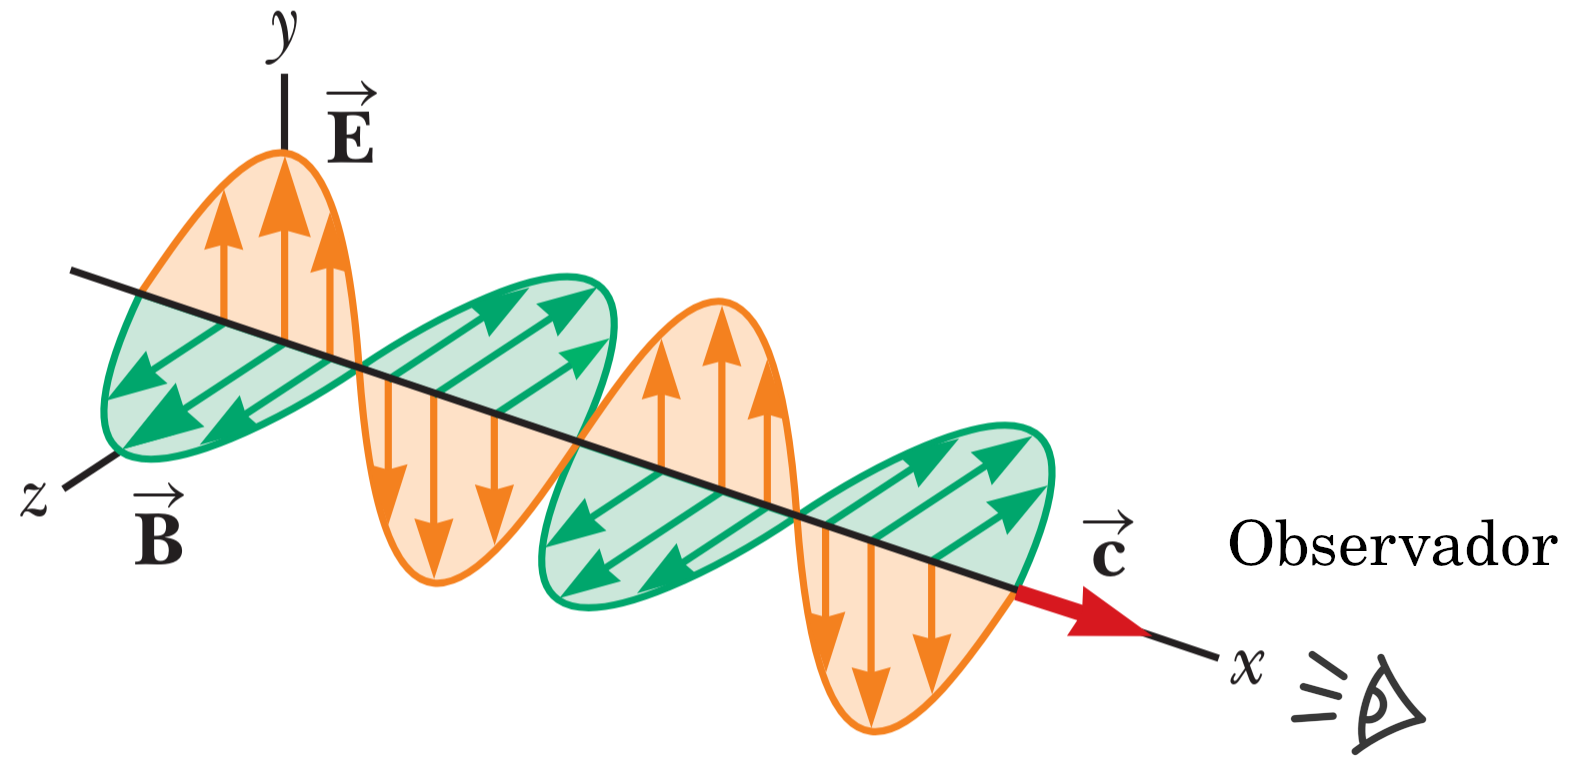
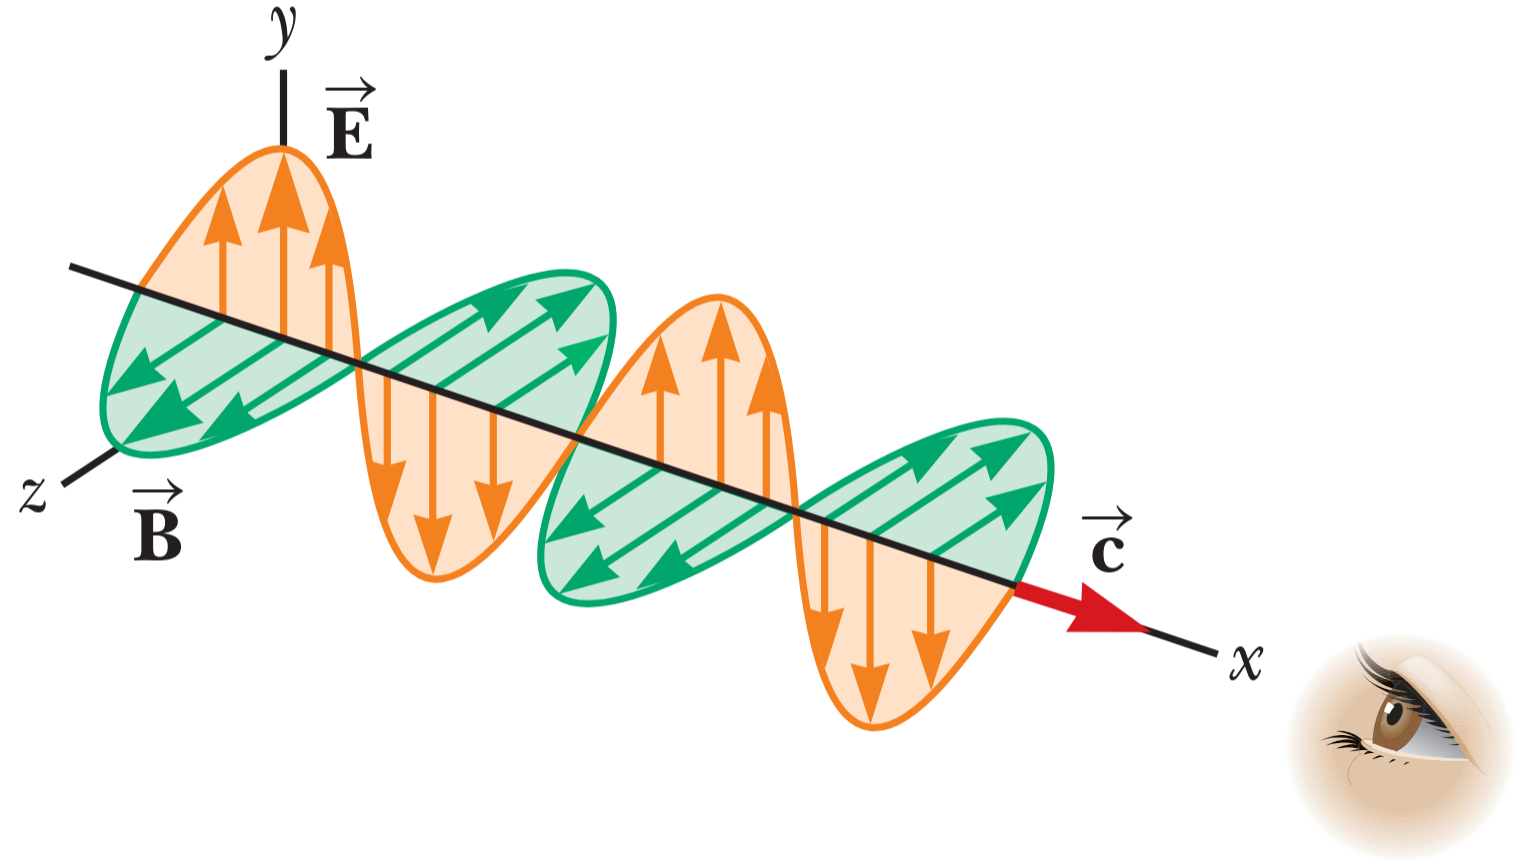
finish mirrors

Changed region(s): [[0.0, 0.0, 1.0, 0.9987], [0.0307, 0.2809, 0.0614, 0.3121]]

diff --git a/chapters/5_optics/4_mirrors.tex b/chapters/5_optics/4_mirrors.tex
@@ -29,4 +29,260 @@ Las imágenes están localizadas ya sea en un punto a partir del cual los rayos 
 
 Las imágenes pueden clasificarse según varias características, una de ellas es si son \textit{reales} o \textit{virtuales}. Una imagen real es la que se forma cuando los rayos luminosos pasan por el punto de la imagen. Por otro lado, una imagen virtual es la que se forma cuando los rayos luminosos no pasan por el punto de la imagen, sino que parecen divergir desde el punto de la imagen. La imagen formada por el espejo de la figura \ref{fig:mirror} es virtual y está detrás del espejo.
 
-La imagen vista de un objeto en un espejo plano \textit{siempre} es virtual.
+La imagen vista de un objeto en un espejo plano \textit{siempre} es virtual. Más adelante veremos un ejemplo de imagen real.
+
+\subsubsection{Aumento Lateral de una imagen}
+
+\begin{wrapfigure}{r}{0.3\textwidth}
+  \centering
+  \includegraphics[width=\linewidth]{mirror_geometry.png}
+  \caption{Construcción geométrica utilizada para localizar la \textbf{imagen} de un objeto en un espejo plano.}
+  \label{fig:mirror_geometry}
+\end{wrapfigure}
+Veamos la figura \ref{fig:mirror_geometry}. Para poder determinar dónde se formará la imagen del objeto es necesario elegir dos rayos emitidos por el objeto. 
+
+En este caso el objeto es una flecha. El punto \(P\) es el extremo superior de la flecha a una altura \(h\) sobre el eje horizontal. El primer rayo que vamos a elegir es el rayo que sale de \(P\), y va hasta \(Q\) que se refleja en el espejo plano sobre sí mismo. El segundo rayo que vamos a elegir es el rayo que sale de \(P\), y va hasta \(R\) que se refleja con un ángulo \(\theta\) con respecto al eje horizontal. 
+
+Un observador que recibe el rayo \(PR\) reflejado, es capaz de ver la imagen virtual del objeto, que sería la flecha roja\footnote{Es importante entender que el objeto que se refleja es una flecha, los colores son únicamente para identificar la flecha original y la flecha reflejada}. Entonces, podría extender el rayo reflejado hasta la imagen virtual \(P'\), que está ubicada a una altura \(h'\) detrás del espejo sobre el eje horizontal.
+
+Ya que los triángulos \(PQR\) y \(P'QR\) son congruentes, \(PQ=P'Q\). Por lo tanto, la imagen formada por un objeto colocado en frente a un espejo plano está tan lejos detrás del espejo como está el objeto delante del espejo. También \(h=h'\), por lo que la imagen virtual es del mismo tamaño que el objeto.
+
+El \textbf{aumento lateral} \(M\) de una imagen se define como:
+\begin{equation}
+M = \frac{\text{altura de la imagen}}{\text{altura del objeto}} = \frac{h'}{h}
+\label{eq:aumento_lateral}
+\end{equation}
+Esta definición general del aumento lateral para una imagen a partir de cualquier tipo de espejo también es válida para imágenes formadas por lentes.
+
+Para cualquier espejo plano \(M=+1\), ya que la altura de la imagen es igual a la altura del objeto. El valor positivo de la amplificación significa que la imagen es vertical.
+
+\subsubsection{Inversión aparente de un espejo plano}
+
+La creencia de que un espejo plano ``invierte de derecha a izquierda'' es una ilusión perceptiva. En realidad, un espejo plano no invierte lateralmente (ni derecha-izquierda ni arriba-abajo); lo que invierte es la profundidad, es decir, el eje frente-detrás (o eje \(z\) en un sistema cartesiano tridimensional).
+
+Cuando te colocas frente a un espejo plano, cada punto de tu cuerpo se refleja siguiendo la ley de reflexión, que dice que el ángulo de incidencia es igual al ángulo de reflexión. Si estás a 1 metro del espejo, la imagen reflejada de cualquier punto de tu cuerpo se forma a 1 metro \textit{detrás} del plano del espejo, manteniendo su posición relativa en los otros dos ejes (horizontal y vertical).
+
+\begin{wrapfigure}{l}{0.43\textwidth}
+  \centering
+  \includegraphics[width=\linewidth]{mirror_inversion.png}
+  \caption{Inversión aparente de un espejo plano.}
+  \label{fig:mirror_inversion}
+\end{wrapfigure}
+Matemáticamente, si representamos tu posición como un vector en el espacio tridimensional, por ejemplo \((x,y,z)\), el espejo refleja tu imagen como \((x,y,-z)\). Esto significa que solo se invierte el componente \(z\), que representa la profundidad (la distancia hacia el espejo).
+
+¿Entonces por qué parece que se invierte la derecha y la izquierda? La confusión surge de la simetría especular y de cómo interpretamos las imágenes reflejadas. Si tú levantas tu mano derecha, la imagen parece levantar la mano izquierda solo porque está frente a ti, y tú la interpretas como una persona girada 180° sobre su eje vertical. En otras palabras, tu cerebro intenta interpretar la imagen como si fuera otra persona que se ha dado vuelta para mirarte, lo cual implicaría una inversión izquierda-derecha. Pero el espejo no realiza esa rotación: tú haces esa interpretación mental.
+
+Un ejemplo claro: si sostienes un cartel con letras normales (no al revés) frente a un espejo, verás las letras invertidas horizontalmente. Esto no ocurre porque el espejo invierta la izquierda y la derecha, sino porque tú has girado el cartel hacia el espejo; si lo haces transparente y lo colocas de espaldas, la imagen coincidirá perfectamente.
+
+\subsubsection{Imágenes formadas por espejos esféricos}
+
+Ahora se estudiarán las imágenes formadas por espejos curvos. Aunque son posibles varias curvaturas, la investigación se restringirá a espejos esféricos. 
+
+Un espejo esférico es aquel que tiene la forma de una sección de una esfera.
+
+\paragraph{Espejo cóncavo}
+
+Si tomamos la sección interna de una esfera, obtenemos un \textbf{espejo cóncavo}. Este tipo de espejos tienen su superficie curva hacia el objeto.
+\begin{figure}[ht]
+  \centering
+  \includegraphics[width=0.55\textwidth]{mirror_concave.png}
+  \caption{Elementos de un espejo cóncavo.}
+  \label{fig:mirror_concave}
+\end{figure}
+
+La figura \ref{fig:mirror_concave}a muestra que el espejo tiene un radio de curvatura \(R\), y su centro de curvatura es el punto \(C\). El punto \(V\) es el centro de la sección esférica, y una línea a través de \(C\) y \(V\) se llama \textbf{eje principal} del espejo.
+
+Ahora considere la figura \ref{fig:mirror_concave}b, que muestra un objeto ubicado en el punto \(O\), donde \(O\) es cualquier punto sobre el eje principal a la izquierda de \(C\). También se muestran dos rayos divergentes que salen del objeto, estos se reflejan en el espejo y convergen en el punto \(I\). Esta es la imagen del objeto \(O\). Luego los rayos continúan su trayecto divergente. Como resultado, la imagen \(I\) es \textbf{real}.
+
+Solo vamos a considerar aquellos rayos que se reflejan en el espejo y convergen en el punto \(I\) del eje principal. A estos rayos se les llama \textbf{rayos paraxiales}. Existen rayos que no son paraxiales (convergen lejos del eje principal) y producen una imagen borrosa. A este efecto se le conoce como \textit{aberración esférica}.
+
+Si se conoce la distancia \(p\) y el radio de curvatura \(R\), se puede calcular la distancia \(q\) de la imagen con la siguiente ecuación:
+\begin{equation}
+    \boxed{\frac{1}{p} + \frac{1}{q} = \frac{2}{R}}
+    \label{eq:mirror_concave}
+\end{equation}
+Para comprender de dónde sale la ecuación \ref{eq:mirror_concave}, veamos la figura \ref{fig:mirror_concave_2}.
+
+\begin{figure}[ht]
+  \centering
+  \includegraphics[width=0.6\textwidth]{mirror_concave_analysis.png}
+  \caption{Imagen formada por un espejo esférico cóncavo cuando el objeto \(O\) yace fuera del centro de curvatura \(C\).}
+  \label{fig:mirror_concave_2}
+\end{figure}
+En esta figura se ha puesto un objeto con forma de flecha (flecha gris) delante de un espejo cóncavo (espejo celeste). Este espejo proyecta una imagen real, amplificada y verticalmente invertida (flecha roja).
+
+\begin{tcolorbox}[mydanger]
+  Amplificación \textbf{no} necesariamente significa aumento.
+\end{tcolorbox}
+
+Como muestra la figura \ref{fig:mirror_concave_2}, dos rayos salen de la punta del una flecha. El rayo rojo pasa a través del centro de curvatura, e incide sobre el espejo perpendicular a la superficie, reflejándose de regreso sobre sí mismo.
+
+El rayo azul incide en el espejo en su centro (punto \(V\)) y se refleja como se muestra. La imagen de la punta de la flecha se localiza en el punto donde se cruzan ambos rayos. Del triángulo rectángulo grande de color rojo puede ver que \(\tan(\theta) = h/p\), y del triangulo rectángulo amarillo se ve que \(\tan(\theta) = -h'/q\).\footnote{El signo negativo se debe a que la imagen es invertida y \(h'\) es negativo}
+
+Operando sobre las expresiones trigonométricas:
+\[
+  \tan(\theta) = \frac{h}{p} = \frac{-h'}{q} \implies \frac{h'}{h} = -\frac{q}{p}
+\]
+
+Por lo tanto, de la ecuación \ref{eq:aumento_lateral} (aumento lateral) encontramos que el aumento de la imagen es:
+\begin{equation}
+  M = \frac{h'}{h} = -\frac{q}{p}
+  \label{eq:aumento_lateral_concave}
+\end{equation}
+
+Si vemos el triangulo verde de la figura, tenemos que:
+\[
+  \tan(\alpha) = \frac{-h'}{R-q} \quad \text{y} \quad \tan(\alpha) = \frac{h}{p-R}
+\]
+Donde al sustituir en el aumento lateral resulta la ecuación \ref{eq:mirror_concave} que se denomina ecuación de espejo.
+
+\begin{wrapfigure}{r}{0.33\textwidth}
+  \centering
+  \includegraphics[width=\linewidth]{focal_distance.png}
+  \caption{Foco de un espejo cóncavo.}
+  \label{fig:focal_distance}
+\end{wrapfigure}
+El \textbf{foco} del espejo se puede determinar suponiendo que el objeto está muy alejado. En este caso la distancia \(p \to \infty\), y por lo tanto \(1/p \to 0\). 
+
+En este caso especial, donde el objeto está infinitamente alejado, la imagen coincide con el foco. Por lo general, el foco no es el punto en el cual los rayos luminosos se enfocan para formar una imagen. El foco está determinado sólo por la curvatura del espejo, no depende de la posición del objeto. Por lo común, la imagen se forma en un punto distinto del foco de un espejo (o una lente). La \textit{única} excepción es cuando el objeto está infinitamente alejado, en este caso la imagen se forma en el foco.
+
+Entonces, en el caso de la figura \ref{fig:focal_distance}, donde los rayos inciden de forma paralela, se puede suponer que la fuente está muy lejos, y el foco y la imagen coinciden. 
+\begin{equation}
+  \frac{1}{q} = \frac{2}{R} \implies f = \frac{R}{2}
+  \label{eq:focal_distance}
+\end{equation}
+Al combinar las ecuaciones \ref{eq:mirror_concave} y \ref{eq:focal_distance}, obtenemos la \textbf{ecuación de espejo}:
+\begin{equation}
+  \frac{1}{p} + \frac{1}{q} = \frac{1}{f}
+\end{equation}
+
+\paragraph{Espejo convexo}
+
+Si tomamos la sección interna de una esfera, obtenemos un \textbf{espejo convexo} también llamado espejo \textbf{divergente}, ya que los rayos de cualquier punto a un objeto divergen después de reflejarse. Este tipo de espejos tienen el pandeo hacia el objeto.
+
+La imagen producida por un espejo convexo siempre es virtual, derecha y disminuida. Se dice que es disminuida cuando el aumento lateral es menor que 1, es decir, \(M < 1\).
+
+No se deducirá ecuaciones para los espejos esféricos convexos, porque puede utilizar las ecuaciones \ref{eq:aumento_lateral_concave}, \ref{eq:mirror_concave} y \ref{eq:focal_distance} tanto para espejos cóncavos como para espejos convexos, siempre y cuando siga el procedimiento siguiente:
+
+\begin{figure}[ht]
+  \centering
+  \includegraphics[width=0.55\textwidth]{convex_mirror.png}
+  \caption{Elementos de un espejo convexo.}
+  \label{fig:convex_mirror}
+\end{figure}
+Teniendo en cuenta la figura \ref{fig:convex_mirror}, el procedimiento es el siguiente:
+\begin{enumerate}
+  \item Identifique la región en la cual los rayos luminosos se mueven hacia el espejo como \textit{cara frontal} y el otro lado como \textit{cara trasera} (es decir la parte frontal que recibe los rayos y trasera del espejo que no recibe los rayos).
+  \item Identifique la localización del objeto \(p\) teniendo en cuenta:
+    \begin{itemize}
+      \item el objeto está delante del espejo: \textit{objeto real}
+      \item el objeto está detrás del espejo: \textit{objeto virtual}
+    \end{itemize}
+  \item  Localización de la imagen \(q\):
+    \begin{itemize}
+      \item la imagen está delante del espejo: \textit{imagen real}
+      \item la imagen está detrás del espejo: \textit{imagen virtual}
+    \end{itemize}
+  \item Altura de la imagen \(h'\):
+    \begin{itemize}
+      \item la imagen es invertida: \(h' < 0\) (negativa)
+      \item la imagen no es invertida: \(h' > 0\) (positiva)
+    \end{itemize}
+  \item Distancia focal \(f\) y radio \(R\):
+    \begin{itemize}
+      \item Es positiva cunado el espejo es cóncavo
+      \item Es negativa cuando el espejo es convexo
+    \end{itemize}
+  \item Aumento lateral \(M\):
+    \begin{itemize}
+      \item la imagen es aumentada: \(M > 1\)
+      \item la imagen es disminuida: \(M < 1\)
+      \item la imagen es del mismo tamaño: \(M = 1\)
+    \end{itemize}
+\end{enumerate}
+
+\subsubsection{Diagrama de rayos para los espejos}
+
+El diagrama de rayos para los espejos es un diagrama que muestra la trayectoria de los rayos que salen de un objeto y se reflejan en un espejo. Es muy útil para verificar los cálculos realizados y entender la naturaleza de la imagen formada.
+
+\noindent Para dibujar el diagrama de rayo es necesario conocer:
+\begin{itemize}
+  \item la posición del objeto \(p\)
+  \item la localización del foco \(f\)
+  \item el centro de curvatura del espejo \(C\)
+\end{itemize}
+
+\noindent A continuación se presentan ejemplos para los diagramas de rayos para los espejos cóncavos y convexos.
+
+\subparagraph{Para espejos cóncavos}
+
+Se tienen dos posibilidades:
+\begin{enumerate}
+  \item El objeto está ubicado detrás del foco y la imagen será real, invertida y aumentada.
+  \item El objeto está ubicado entre el foco y el centro de curvatura y la imagen será virtual, derecha y disminuida.
+\end{enumerate}
+
+\begin{figure}[ht]
+  \centering
+  \begin{subfigure}[b]{0.49\textwidth}
+      \centering
+      \includegraphics[width=\textwidth]{mirror_diagram_1.png}
+      \caption{Diagrama de rayos para un espejo cóncavo cuando el objeto está ubicado detrás del foco.}
+      \label{fig:mirror_diagram_1}
+  \end{subfigure}
+  \hfill
+  \begin{subfigure}[b]{0.49\textwidth}
+      \centering
+      \includegraphics[width=\textwidth]{mirror_diagram_2.png}
+      \caption{Diagrama de rayos para un espejo cóncavo cuando el objeto está ubicado entre el foco y el centro de curvatura.}
+      \label{fig:mirror_diagram_2}
+  \end{subfigure}
+  \caption{Diagrama de rayos para espejos cóncavos}
+  \label{fig:mirror_diagram}
+\end{figure}
+
+\noindent La estrategia es la siguiente: una vez se conocen los datos del problema, dibuje tres rayos principales para localizar la imagen. Estos son:
+
+\begin{enumerate}
+  \item Un rayo paralelo al eje principal, y el reflejo que pasa por el foco.
+  \item El rayo que pasa por el foco \(f\), y el reflejo que es paralelo al eje principal.
+  \item Un rayo que pasa por el centro de curvatura \(C\), y se refleja sobre sí mismo.
+\end{enumerate}
+
+\subparagraph{Para espejos convexos}
+
+Se tiene una sola posibilidad: El objeto está ubicado entre el foco y el centro de curvatura y la imagen será virtual, derecha y disminuida.
+
+\begin{figure}[ht]
+  \centering
+  \includegraphics[width=0.6\textwidth]{mirror_diagram_3.png}
+  \caption{Diagrama de rayos para un espejo convexo.}
+  \label{fig:mirror_diagram_3}
+\end{figure}
+
+\subsubsection{Estrategia para resolver problemas de espejos}
+
+\begin{tcolorbox}[interesting_data, title=Recuerda]
+  Es muy importante que recuerdes que el objeto no ``emite'' rayos, la luz proviene de alguna fuente, y rebota en el objeto. Luego los rayos se reflejan en el espejo y forman la imagen.
+  Los rayos que salen del objeto no son dos o tres, sino que son infinitos. Puedes dibujar tantos rayos como quieras. En este resumen se han dibujado los rayos más convenientes para localizar la imagen de forma rápida, pero podrías dibujar otros rayos para verificar los cálculos.
+\end{tcolorbox}
+
+\begin{wrapfigure}{r}{0.4\textwidth}
+  \centering
+  \includegraphics[width=\linewidth]{mirror_excercise.png}
+  \caption{Dos espejos ubicados a 90 grados entre sí.}
+  \label{fig:mirror_excercise}
+\end{wrapfigure}
+Un ejercicio común es el que se muestra en la figura \ref{fig:mirror_excercise}. Para resolver este ejercicio y descubrir por qué hay una tercer imagen, es necesario aplicar la recomendación del cuadro de arriba. 
+
+Recordando entonces que los rayos que salen del objeto no son dos o tres, sino que son infinitos, es posible dibujar tantos rayos como quieras para encontrar todas las imágenes posibles.
+
+Tal vez piense ¿Cómo se supone que dibuje infinitos rayos? No es necesario dibujar infinitos rayos, solo es necesario dibujar algunos como para entender el comportamiento de los rayos y cómo se forman las imágenes.
+
+Veamos como sería para este ejemplo. Tenemos una partícula ubicada en el punto \(P\). Sabemos que, en cada espejo producirá una imagen, entonces tendremos la imagen \(P_1'\) para el espejo \(E_1\) y \(P_2'\) para el espejo \(E_2\).
+
+Ahora, si continuamos trazando rayos, vemos que algunos rayos que rebotan en el espejo \(E_1\), luego rebotan en el espejo \(E_2\). Esto significa que parte del espejo \(E_1\) se refleja en el espejo \(E_2\).
+
+Ahora, prestemos atención a este efecto: como el observador no está ubicado sobre la línea que une a la partícula \(P\) con la intersección entre los espejos, verá el reflejo del espejo \(E_1\) en el espejo \(E_2\). Esto significa que verá la imagen \(P_1'\) reflejada en el espejo \(E_2\), formando la imagen \(P_3'\).
+
+La imagen \(P_3'\) es una imagen de la imagen \(P_1'\), es decir, es una imagen virtual, derecha y disminuida.

diff --git a/chapters/5_optics/summary.tex b/chapters/5_optics/summary.tex
@@ -1,8 +1,16 @@
 \subsection{Resumen}
 
-\begin{tcolorbox}[remember, title=Imágenes]
+\begin{tcolorbox}[title=Energía de una onda electromagnética]
+  La energía de una onda electromagnética es:
+  \[
+    E = hf = \frac{hc}{\lambda}
+  \]
+\end{tcolorbox}
+
+\begin{tcolorbox}[title=Imágenes]
   \subparagraph{Imágenes reales vs. imágenes virtuales}
-  \textbf{Imagen real}:
+
+  \textbf{1. Imagen real}:
   \begin{itemize}
     \item Se forma por la \textbf{intersección real} de rayos reflejados.
     \item Puede proyectarse en una pantalla.
@@ -10,26 +18,24 @@
     \item Es \textbf{invertida} respecto al objeto.
   \end{itemize}
 
-  \textbf{Imagen virtual}:
+  \textbf{2. Imagen virtual}:
   \begin{itemize}
     \item Se forma por la \textbf{prolongación} de rayos reflejados, que no se cruzan realmente.
     \item No se puede proyectar en una pantalla.
     \item Se forma \textbf{detrás del espejo}.
     \item Es \textbf{derecha} (no invertida) respecto al objeto.
   \end{itemize}
-
+  \vspace{5pt}
   \subparagraph{Imágenes aumentadas, disminuidas o del mismo tamaño}
 
   Depende de la \textbf{posición del objeto} respecto al espejo y de la \textbf{curvatura del espejo}:
-
-  En un espejo \textbf{plano}, la imagen es \textbf{virtual}, \textbf{derecha}, y del \textbf{mismo tamaño} que el objeto.
-  
-  En un espejo \textbf{cóncavo}:
-  \begin{itemize}
-    \item Si el objeto está \textbf{lejos del foco}, se forma una imagen \textbf{real, invertida y más pequeña o del mismo tamaño}.
-    \item Si está \textbf{entre el foco y el espejo}, se forma una imagen \textbf{virtual, derecha y aumentada}.
-  \end{itemize}
-  
-  En un espejo \textbf{convexo}, siempre se forma una imagen \textbf{virtual, derecha y disminuida}.
-  
+  \begin{enumerate}
+    \item En un espejo \textbf{plano}, la imagen es \textbf{virtual}, \textbf{derecha}, y del \textbf{mismo tamaño} que el objeto.
+    \item En un espejo \textbf{cóncavo}:
+      \begin{itemize}
+        \item Si el objeto está \textbf{lejos del foco}, se forma una imagen \textbf{real, invertida y más pequeña o del mismo tamaño}.
+        \item Si está \textbf{entre el foco y el espejo}, se forma una imagen \textbf{virtual, derecha y aumentada}.
+      \end{itemize}
+    \item En un espejo \textbf{convexo}, siempre se forma una imagen \textbf{virtual, derecha y disminuida}.
+  \end{enumerate}
 \end{tcolorbox}

diff --git a/chapters/5_optics/3_wave_phenomena.tex b/chapters/5_optics/3_wave_phenomena.tex
@@ -262,9 +262,9 @@ En la imagen \ref{fig:diffraction_150_slits} se puede ver que hay una serie de f
 
 La polarización es la orientación de la vibración de una onda transversal en un solo plano. Solo ocurre con ondas transversales, como la luz; no ocurre con ondas longitudinales como el sonido.
 
-\begin{wrapfigure}{r}{0.4\textwidth}
+\begin{wrapfigure}{r}{0.38\textwidth}
   \centering
-  \includegraphics[width=0.8\linewidth]{polarization_observer.png}
+  \includegraphics[width=\linewidth]{polarization_observer.png}
   \caption{Posición del observador con respecto a la onda electromagnética.}
   \label{fig:polarization}
 \end{wrapfigure}

diff --git a/chapters/5_optics/5_lenses.tex b/chapters/5_optics/5_lenses.tex
@@ -1,0 +1,1 @@
+\subsection{Lentes y formación de imágenes}
